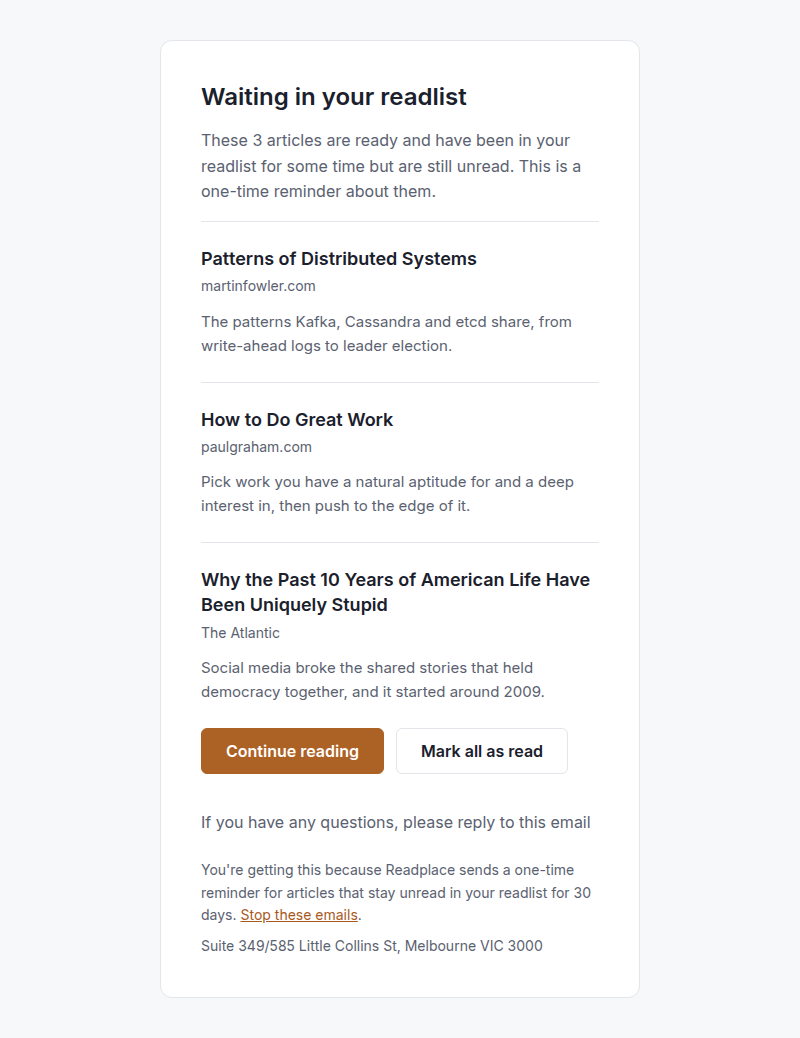
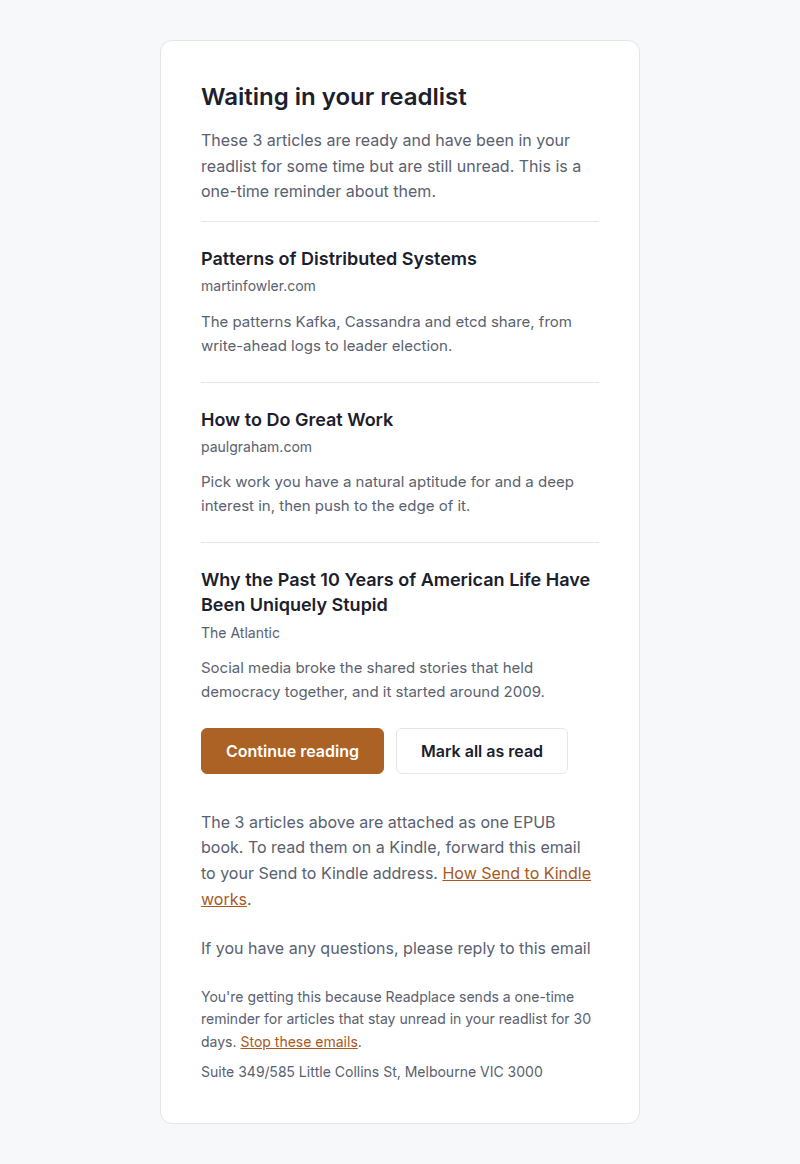
docs(hutch): regenerate the digest email captures from the current sender
The readlist digest, trial-ending digest and Hacker News starter captures
predate b01e4fcf3, so they lack the EPUB attachment line and the "How Send
to Kindle works" link, and 9cdd36683 has since changed their unsubscribe
URL and the starter's utm_source.

Each body is re-rendered through the email builder with the example inputs
the customer-emails visual test uses. With those inputs the other 24
captures come out byte for byte as checked in, so only these four change.
The five screenshots of these emails are re-rendered at 800px and 390px in
the pinned Playwright image (v1.60.0) with Inter 4.1 installed; rendering
the old bodies this way reproduces the old screenshots' dimensions.

Changed region(s): [[0.25, 0.0617, 0.75, 0.9249]]

diff --git a/projects/hutch/docs/customer-emails/html/hacker-news-starter--default.html b/projects/hutch/docs/customer-emails/html/hacker-news-starter--default.html
@@ -29,9 +29,9 @@
                         a summary can mention one. Left unwrapped, the client would build
                         its own link to the original site — the one destination this email
                         must never offer. Text already inside an anchor is left alone. -->
-                      <p style="margin:0 0 4px;font-size:18px;line-height:1.4;font-weight:600;overflow-wrap:anywhere;word-break:break-word;"><a href="https://readplace.com/queue/05d1775554397973376adaf5128157d5/view?from&#x3D;reader-ready-email&amp;queue&#x3D;7c4e1a9f3b2d6e80&amp;campaign&#x3D;hn-starter-v1&amp;utm_source&#x3D;queue-digest&amp;utm_medium&#x3D;email&amp;utm_campaign&#x3D;hn-starter-v1&amp;utm_content&#x3D;article&amp;utm_term&#x3D;starter-3f1c9a7e5b2d4c8e6a0f1b3d5c7e9a2b4d6f8a0c1e3b5d7f9a2c4e6b8d0f1a3c" style="color:#1A202C;text-decoration:none;">In defense of simple architectures</a></p>
-                      <p style="margin:0 0 12px;font-size:14px;line-height:1.6;overflow-wrap:anywhere;word-break:break-word;"><a href="https://readplace.com/queue/05d1775554397973376adaf5128157d5/view?from&#x3D;reader-ready-email&amp;queue&#x3D;7c4e1a9f3b2d6e80&amp;campaign&#x3D;hn-starter-v1&amp;utm_source&#x3D;queue-digest&amp;utm_medium&#x3D;email&amp;utm_campaign&#x3D;hn-starter-v1&amp;utm_content&#x3D;article&amp;utm_term&#x3D;starter-3f1c9a7e5b2d4c8e6a0f1b3d5c7e9a2b4d6f8a0c1e3b5d7f9a2c4e6b8d0f1a3c" style="color:#5A6170;text-decoration:none;">danluu.com</a></p>
-                      <p style="margin:0;font-size:15px;line-height:1.6;overflow-wrap:anywhere;word-break:break-word;"><a href="https://readplace.com/queue/05d1775554397973376adaf5128157d5/view?from&#x3D;reader-ready-email&amp;queue&#x3D;7c4e1a9f3b2d6e80&amp;campaign&#x3D;hn-starter-v1&amp;utm_source&#x3D;queue-digest&amp;utm_medium&#x3D;email&amp;utm_campaign&#x3D;hn-starter-v1&amp;utm_content&#x3D;article&amp;utm_term&#x3D;starter-3f1c9a7e5b2d4c8e6a0f1b3d5c7e9a2b4d6f8a0c1e3b5d7f9a2c4e6b8d0f1a3c" style="color:#5A6170;text-decoration:none;">Wave runs a multi-billion-dollar business on a Python monolith on top of Postgres, and the boring choices keep paying off.</a></p>
+                      <p style="margin:0 0 4px;font-size:18px;line-height:1.4;font-weight:600;overflow-wrap:anywhere;word-break:break-word;"><a href="https://readplace.com/queue/05d1775554397973376adaf5128157d5/view?from&#x3D;reader-ready-email&amp;queue&#x3D;7c4e1a9f3b2d6e80&amp;campaign&#x3D;hn-starter-v1&amp;utm_source&#x3D;starter-email&amp;utm_medium&#x3D;email&amp;utm_campaign&#x3D;hn-starter-v1&amp;utm_content&#x3D;article&amp;utm_term&#x3D;starter-3f1c9a7e5b2d4c8e6a0f1b3d5c7e9a2b4d6f8a0c1e3b5d7f9a2c4e6b8d0f1a3c" style="color:#1A202C;text-decoration:none;">In defense of simple architectures</a></p>
+                      <p style="margin:0 0 12px;font-size:14px;line-height:1.6;overflow-wrap:anywhere;word-break:break-word;"><a href="https://readplace.com/queue/05d1775554397973376adaf5128157d5/view?from&#x3D;reader-ready-email&amp;queue&#x3D;7c4e1a9f3b2d6e80&amp;campaign&#x3D;hn-starter-v1&amp;utm_source&#x3D;starter-email&amp;utm_medium&#x3D;email&amp;utm_campaign&#x3D;hn-starter-v1&amp;utm_content&#x3D;article&amp;utm_term&#x3D;starter-3f1c9a7e5b2d4c8e6a0f1b3d5c7e9a2b4d6f8a0c1e3b5d7f9a2c4e6b8d0f1a3c" style="color:#5A6170;text-decoration:none;">danluu.com</a></p>
+                      <p style="margin:0;font-size:15px;line-height:1.6;overflow-wrap:anywhere;word-break:break-word;"><a href="https://readplace.com/queue/05d1775554397973376adaf5128157d5/view?from&#x3D;reader-ready-email&amp;queue&#x3D;7c4e1a9f3b2d6e80&amp;campaign&#x3D;hn-starter-v1&amp;utm_source&#x3D;starter-email&amp;utm_medium&#x3D;email&amp;utm_campaign&#x3D;hn-starter-v1&amp;utm_content&#x3D;article&amp;utm_term&#x3D;starter-3f1c9a7e5b2d4c8e6a0f1b3d5c7e9a2b4d6f8a0c1e3b5d7f9a2c4e6b8d0f1a3c" style="color:#5A6170;text-decoration:none;">Wave runs a multi-billion-dollar business on a Python monolith on top of Postgres, and the boring choices keep paying off.</a></p>
                     </td>
                   </tr>
                 </table>
@@ -43,9 +43,9 @@
                         a summary can mention one. Left unwrapped, the client would build
                         its own link to the original site — the one destination this email
                         must never offer. Text already inside an anchor is left alone. -->
-                      <p style="margin:0 0 4px;font-size:18px;line-height:1.4;font-weight:600;overflow-wrap:anywhere;word-break:break-word;"><a href="https://readplace.com/queue/950ad419d75c49c76313c873a64b0c1a/view?from&#x3D;reader-ready-email&amp;queue&#x3D;7c4e1a9f3b2d6e80&amp;campaign&#x3D;hn-starter-v1&amp;utm_source&#x3D;queue-digest&amp;utm_medium&#x3D;email&amp;utm_campaign&#x3D;hn-starter-v1&amp;utm_content&#x3D;article&amp;utm_term&#x3D;starter-3f1c9a7e5b2d4c8e6a0f1b3d5c7e9a2b4d6f8a0c1e3b5d7f9a2c4e6b8d0f1a3c" style="color:#1A202C;text-decoration:none;">DNS &quot;propagation&quot; is actually caches expiring</a></p>
-                      <p style="margin:0 0 12px;font-size:14px;line-height:1.6;overflow-wrap:anywhere;word-break:break-word;"><a href="https://readplace.com/queue/950ad419d75c49c76313c873a64b0c1a/view?from&#x3D;reader-ready-email&amp;queue&#x3D;7c4e1a9f3b2d6e80&amp;campaign&#x3D;hn-starter-v1&amp;utm_source&#x3D;queue-digest&amp;utm_medium&#x3D;email&amp;utm_campaign&#x3D;hn-starter-v1&amp;utm_content&#x3D;article&amp;utm_term&#x3D;starter-3f1c9a7e5b2d4c8e6a0f1b3d5c7e9a2b4d6f8a0c1e3b5d7f9a2c4e6b8d0f1a3c" style="color:#5A6170;text-decoration:none;">Julia Evans</a></p>
-                      <p style="margin:0;font-size:15px;line-height:1.6;overflow-wrap:anywhere;word-break:break-word;"><a href="https://readplace.com/queue/950ad419d75c49c76313c873a64b0c1a/view?from&#x3D;reader-ready-email&amp;queue&#x3D;7c4e1a9f3b2d6e80&amp;campaign&#x3D;hn-starter-v1&amp;utm_source&#x3D;queue-digest&amp;utm_medium&#x3D;email&amp;utm_campaign&#x3D;hn-starter-v1&amp;utm_content&#x3D;article&amp;utm_term&#x3D;starter-3f1c9a7e5b2d4c8e6a0f1b3d5c7e9a2b4d6f8a0c1e3b5d7f9a2c4e6b8d0f1a3c" style="color:#5A6170;text-decoration:none;">Why DNS changes seem to take time to spread: resolvers keep cached records until their TTL runs out.</a></p>
+                      <p style="margin:0 0 4px;font-size:18px;line-height:1.4;font-weight:600;overflow-wrap:anywhere;word-break:break-word;"><a href="https://readplace.com/queue/950ad419d75c49c76313c873a64b0c1a/view?from&#x3D;reader-ready-email&amp;queue&#x3D;7c4e1a9f3b2d6e80&amp;campaign&#x3D;hn-starter-v1&amp;utm_source&#x3D;starter-email&amp;utm_medium&#x3D;email&amp;utm_campaign&#x3D;hn-starter-v1&amp;utm_content&#x3D;article&amp;utm_term&#x3D;starter-3f1c9a7e5b2d4c8e6a0f1b3d5c7e9a2b4d6f8a0c1e3b5d7f9a2c4e6b8d0f1a3c" style="color:#1A202C;text-decoration:none;">DNS &quot;propagation&quot; is actually caches expiring</a></p>
+                      <p style="margin:0 0 12px;font-size:14px;line-height:1.6;overflow-wrap:anywhere;word-break:break-word;"><a href="https://readplace.com/queue/950ad419d75c49c76313c873a64b0c1a/view?from&#x3D;reader-ready-email&amp;queue&#x3D;7c4e1a9f3b2d6e80&amp;campaign&#x3D;hn-starter-v1&amp;utm_source&#x3D;starter-email&amp;utm_medium&#x3D;email&amp;utm_campaign&#x3D;hn-starter-v1&amp;utm_content&#x3D;article&amp;utm_term&#x3D;starter-3f1c9a7e5b2d4c8e6a0f1b3d5c7e9a2b4d6f8a0c1e3b5d7f9a2c4e6b8d0f1a3c" style="color:#5A6170;text-decoration:none;">Julia Evans</a></p>
+                      <p style="margin:0;font-size:15px;line-height:1.6;overflow-wrap:anywhere;word-break:break-word;"><a href="https://readplace.com/queue/950ad419d75c49c76313c873a64b0c1a/view?from&#x3D;reader-ready-email&amp;queue&#x3D;7c4e1a9f3b2d6e80&amp;campaign&#x3D;hn-starter-v1&amp;utm_source&#x3D;starter-email&amp;utm_medium&#x3D;email&amp;utm_campaign&#x3D;hn-starter-v1&amp;utm_content&#x3D;article&amp;utm_term&#x3D;starter-3f1c9a7e5b2d4c8e6a0f1b3d5c7e9a2b4d6f8a0c1e3b5d7f9a2c4e6b8d0f1a3c" style="color:#5A6170;text-decoration:none;">Why DNS changes seem to take time to spread: resolvers keep cached records until their TTL runs out.</a></p>
                     </td>
                   </tr>
                 </table>
@@ -57,9 +57,9 @@
                         a summary can mention one. Left unwrapped, the client would build
                         its own link to the original site — the one destination this email
                         must never offer. Text already inside an anchor is left alone. -->
-                      <p style="margin:0 0 4px;font-size:18px;line-height:1.4;font-weight:600;overflow-wrap:anywhere;word-break:break-word;"><a href="https://readplace.com/queue/1257466dab1bdfd516fd9f2b37db3bc4/view?from&#x3D;reader-ready-email&amp;queue&#x3D;7c4e1a9f3b2d6e80&amp;campaign&#x3D;hn-starter-v1&amp;utm_source&#x3D;queue-digest&amp;utm_medium&#x3D;email&amp;utm_campaign&#x3D;hn-starter-v1&amp;utm_content&#x3D;article&amp;utm_term&#x3D;starter-3f1c9a7e5b2d4c8e6a0f1b3d5c7e9a2b4d6f8a0c1e3b5d7f9a2c4e6b8d0f1a3c" style="color:#1A202C;text-decoration:none;">Appropriate Uses For SQLite</a></p>
-                      <p style="margin:0 0 12px;font-size:14px;line-height:1.6;overflow-wrap:anywhere;word-break:break-word;"><a href="https://readplace.com/queue/1257466dab1bdfd516fd9f2b37db3bc4/view?from&#x3D;reader-ready-email&amp;queue&#x3D;7c4e1a9f3b2d6e80&amp;campaign&#x3D;hn-starter-v1&amp;utm_source&#x3D;queue-digest&amp;utm_medium&#x3D;email&amp;utm_campaign&#x3D;hn-starter-v1&amp;utm_content&#x3D;article&amp;utm_term&#x3D;starter-3f1c9a7e5b2d4c8e6a0f1b3d5c7e9a2b4d6f8a0c1e3b5d7f9a2c4e6b8d0f1a3c" style="color:#5A6170;text-decoration:none;">SQLite</a></p>
-                      <p style="margin:0;font-size:15px;line-height:1.6;overflow-wrap:anywhere;word-break:break-word;"><a href="https://readplace.com/queue/1257466dab1bdfd516fd9f2b37db3bc4/view?from&#x3D;reader-ready-email&amp;queue&#x3D;7c4e1a9f3b2d6e80&amp;campaign&#x3D;hn-starter-v1&amp;utm_source&#x3D;queue-digest&amp;utm_medium&#x3D;email&amp;utm_campaign&#x3D;hn-starter-v1&amp;utm_content&#x3D;article&amp;utm_term&#x3D;starter-3f1c9a7e5b2d4c8e6a0f1b3d5c7e9a2b4d6f8a0c1e3b5d7f9a2c4e6b8d0f1a3c" style="color:#5A6170;text-decoration:none;">SQLite competes with fopen(), not with client/server databases, and fits most low-to-medium traffic websites.</a></p>
+                      <p style="margin:0 0 4px;font-size:18px;line-height:1.4;font-weight:600;overflow-wrap:anywhere;word-break:break-word;"><a href="https://readplace.com/queue/1257466dab1bdfd516fd9f2b37db3bc4/view?from&#x3D;reader-ready-email&amp;queue&#x3D;7c4e1a9f3b2d6e80&amp;campaign&#x3D;hn-starter-v1&amp;utm_source&#x3D;starter-email&amp;utm_medium&#x3D;email&amp;utm_campaign&#x3D;hn-starter-v1&amp;utm_content&#x3D;article&amp;utm_term&#x3D;starter-3f1c9a7e5b2d4c8e6a0f1b3d5c7e9a2b4d6f8a0c1e3b5d7f9a2c4e6b8d0f1a3c" style="color:#1A202C;text-decoration:none;">Appropriate Uses For SQLite</a></p>
+                      <p style="margin:0 0 12px;font-size:14px;line-height:1.6;overflow-wrap:anywhere;word-break:break-word;"><a href="https://readplace.com/queue/1257466dab1bdfd516fd9f2b37db3bc4/view?from&#x3D;reader-ready-email&amp;queue&#x3D;7c4e1a9f3b2d6e80&amp;campaign&#x3D;hn-starter-v1&amp;utm_source&#x3D;starter-email&amp;utm_medium&#x3D;email&amp;utm_campaign&#x3D;hn-starter-v1&amp;utm_content&#x3D;article&amp;utm_term&#x3D;starter-3f1c9a7e5b2d4c8e6a0f1b3d5c7e9a2b4d6f8a0c1e3b5d7f9a2c4e6b8d0f1a3c" style="color:#5A6170;text-decoration:none;">SQLite</a></p>
+                      <p style="margin:0;font-size:15px;line-height:1.6;overflow-wrap:anywhere;word-break:break-word;"><a href="https://readplace.com/queue/1257466dab1bdfd516fd9f2b37db3bc4/view?from&#x3D;reader-ready-email&amp;queue&#x3D;7c4e1a9f3b2d6e80&amp;campaign&#x3D;hn-starter-v1&amp;utm_source&#x3D;starter-email&amp;utm_medium&#x3D;email&amp;utm_campaign&#x3D;hn-starter-v1&amp;utm_content&#x3D;article&amp;utm_term&#x3D;starter-3f1c9a7e5b2d4c8e6a0f1b3d5c7e9a2b4d6f8a0c1e3b5d7f9a2c4e6b8d0f1a3c" style="color:#5A6170;text-decoration:none;">SQLite competes with fopen(), not with client/server databases, and fits most low-to-medium traffic websites.</a></p>
                     </td>
                   </tr>
                 </table>
@@ -72,7 +72,7 @@
                             <table role="presentation" cellpadding="0" cellspacing="0" style="margin:0;">
                               <tr>
                                 <td style="border-radius:6px;background-color:#AD6225;border:1px solid #AD6225;">
-                                  <a href="https://readplace.com/queue?queue&#x3D;7c4e1a9f3b2d6e80&amp;utm_source&#x3D;queue-digest&amp;utm_medium&#x3D;email&amp;utm_campaign&#x3D;hn-starter-v1&amp;utm_content&#x3D;continue-reading&amp;utm_term&#x3D;starter-3f1c9a7e5b2d4c8e6a0f1b3d5c7e9a2b4d6f8a0c1e3b5d7f9a2c4e6b8d0f1a3c" style="display:inline-block;padding:12px 24px;font-size:16px;font-weight:600;line-height:20px;color:#FFFFFF;text-decoration:none;border-radius:6px;">Read your Hacker News picks</a>
+                                  <a href="https://readplace.com/queue?queue&#x3D;7c4e1a9f3b2d6e80&amp;utm_source&#x3D;starter-email&amp;utm_medium&#x3D;email&amp;utm_campaign&#x3D;hn-starter-v1&amp;utm_content&#x3D;continue-reading&amp;utm_term&#x3D;starter-3f1c9a7e5b2d4c8e6a0f1b3d5c7e9a2b4d6f8a0c1e3b5d7f9a2c4e6b8d0f1a3c" style="display:inline-block;padding:12px 24px;font-size:16px;font-weight:600;line-height:20px;color:#FFFFFF;text-decoration:none;border-radius:6px;">Read your Hacker News picks</a>
                                 </td>
                               </tr>
                             </table>
@@ -82,8 +82,9 @@
                     </td>
                   </tr>
                 </table>
+                <p style="margin:24px 0 0;font-size:16px;line-height:1.6;color:#5A6170;">The 3 articles above are attached as one EPUB book. To read them on a Kindle, forward this email to your Send to Kindle address. <a href="https://readplace.com/blog/read-your-saved-articles-on-a-kindle-or-kobo?utm_source&#x3D;starter-email&amp;utm_medium&#x3D;email&amp;utm_campaign&#x3D;hn-starter-v1&amp;utm_content&#x3D;kindle-guide&amp;utm_term&#x3D;starter-3f1c9a7e5b2d4c8e6a0f1b3d5c7e9a2b4d6f8a0c1e3b5d7f9a2c4e6b8d0f1a3c" style="color:#A85A1E;text-decoration:underline;">How Send to Kindle works</a>.</p>
                 <p style="margin:24px 0 0;font-size:16px;line-height:1.6;color:#5A6170;">If you have any questions, please reply to this email</p>
-                <p style="margin:24px 0 0;font-size:14px;line-height:1.6;color:#5A6170;">You&#x27;re getting this because you save articles to Readplace. <a href="https://readplace.com/email/queue-digest/unsubscribe?t&#x3D;4f9a1c7e2b3d48e6a0c5d9f1e7b2a6c3.9c2e7b4a1f6d3e8c5b0a7f2d4e9c1b6a3f8d5e2c7b0a4f9e1d6c3b8a5f2e7d0c&amp;utm_source&#x3D;queue-digest&amp;utm_medium&#x3D;email&amp;utm_campaign&#x3D;hn-starter-v1&amp;utm_content&#x3D;unsubscribe&amp;utm_term&#x3D;starter-3f1c9a7e5b2d4c8e6a0f1b3d5c7e9a2b4d6f8a0c1e3b5d7f9a2c4e6b8d0f1a3c" style="color:#A85A1E;text-decoration:underline;">Stop these emails</a>.</p>
+                <p style="margin:24px 0 0;font-size:14px;line-height:1.6;color:#5A6170;">You&#x27;re getting this because you save articles to Readplace. <a href="https://readplace.com/email/queue-digest/unsubscribe?t&#x3D;4f9a1c7e2b3d48e6a0c5d9f1e7b2a6c3.9c2e7b4a1f6d3e8c5b0a7f2d4e9c1b6a3f8d5e2c7b0a4f9e1d6c3b8a5f2e7d0c&amp;kind&#x3D;starter&amp;utm_source&#x3D;starter-email&amp;utm_medium&#x3D;email&amp;utm_campaign&#x3D;hn-starter-v1&amp;utm_content&#x3D;unsubscribe&amp;utm_term&#x3D;starter-3f1c9a7e5b2d4c8e6a0f1b3d5c7e9a2b4d6f8a0c1e3b5d7f9a2c4e6b8d0f1a3c" style="color:#A85A1E;text-decoration:underline;">Stop these emails</a>.</p>
                 <p style="margin:8px 0 0;font-size:14px;line-height:1.6;color:#5A6170;">Suite 349/585 Little Collins St, Melbourne VIC 3000</p>
               </td>
             </tr>

diff --git a/projects/hutch/docs/customer-emails/html/queue-digest--default.html b/projects/hutch/docs/customer-emails/html/queue-digest--default.html
@@ -95,8 +95,9 @@
                     </td>
                   </tr>
                 </table>
+                <p style="margin:24px 0 0;font-size:16px;line-height:1.6;color:#5A6170;">The 3 articles above are attached as one EPUB book. To read them on a Kindle, forward this email to your Send to Kindle address. <a href="https://readplace.com/blog/read-your-saved-articles-on-a-kindle-or-kobo?utm_source&#x3D;queue-digest&amp;utm_medium&#x3D;email&amp;utm_campaign&#x3D;regular&amp;utm_content&#x3D;kindle-guide&amp;utm_term&#x3D;b6e3f0a2-5c1d-4e7f-9a83-2d4c6e8f1a57" style="color:#A85A1E;text-decoration:underline;">How Send to Kindle works</a>.</p>
                 <p style="margin:24px 0 0;font-size:16px;line-height:1.6;color:#5A6170;">If you have any questions, please reply to this email</p>
-                <p style="margin:24px 0 0;font-size:14px;line-height:1.6;color:#5A6170;">You&#x27;re getting this because Readplace sends a one-time reminder for articles that stay unread in your readlist for 30 days. <a href="https://readplace.com/email/queue-digest/unsubscribe?t&#x3D;4f9a1c7e2b3d48e6a0c5d9f1e7b2a6c3.db6e0c9463396e7e6143ec80076a062a3ca046dd6838dc5ba87abf7f7af7e7cc&amp;utm_source&#x3D;queue-digest&amp;utm_medium&#x3D;email&amp;utm_campaign&#x3D;regular&amp;utm_content&#x3D;unsubscribe&amp;utm_term&#x3D;b6e3f0a2-5c1d-4e7f-9a83-2d4c6e8f1a57" style="color:#A85A1E;text-decoration:underline;">Stop these emails</a>.</p>
+                <p style="margin:24px 0 0;font-size:14px;line-height:1.6;color:#5A6170;">You&#x27;re getting this because Readplace sends a one-time reminder for articles that stay unread in your readlist for 30 days. <a href="https://readplace.com/email/queue-digest/unsubscribe?t&#x3D;4f9a1c7e2b3d48e6a0c5d9f1e7b2a6c3.db6e0c9463396e7e6143ec80076a062a3ca046dd6838dc5ba87abf7f7af7e7cc&amp;kind&#x3D;regular&amp;utm_source&#x3D;queue-digest&amp;utm_medium&#x3D;email&amp;utm_campaign&#x3D;regular&amp;utm_content&#x3D;unsubscribe&amp;utm_term&#x3D;b6e3f0a2-5c1d-4e7f-9a83-2d4c6e8f1a57" style="color:#A85A1E;text-decoration:underline;">Stop these emails</a>.</p>
                 <p style="margin:8px 0 0;font-size:14px;line-height:1.6;color:#5A6170;">Suite 349/585 Little Collins St, Melbourne VIC 3000</p>
               </td>
             </tr>

diff --git a/projects/hutch/docs/customer-emails/html/queue-digest--single-article.html b/projects/hutch/docs/customer-emails/html/queue-digest--single-article.html
@@ -67,8 +67,9 @@
                     </td>
                   </tr>
                 </table>
+                <p style="margin:24px 0 0;font-size:16px;line-height:1.6;color:#5A6170;">The article above is attached as an EPUB. To read it on a Kindle, forward this email to your Send to Kindle address. <a href="https://readplace.com/blog/read-your-saved-articles-on-a-kindle-or-kobo?utm_source&#x3D;queue-digest&amp;utm_medium&#x3D;email&amp;utm_campaign&#x3D;regular&amp;utm_content&#x3D;kindle-guide&amp;utm_term&#x3D;e41a7b39-6d02-4c85-b1f3-7a9e2c5d0b68" style="color:#A85A1E;text-decoration:underline;">How Send to Kindle works</a>.</p>
                 <p style="margin:24px 0 0;font-size:16px;line-height:1.6;color:#5A6170;">If you have any questions, please reply to this email</p>
-                <p style="margin:24px 0 0;font-size:14px;line-height:1.6;color:#5A6170;">You&#x27;re getting this because Readplace sends a one-time reminder for articles that stay unread in your readlist for 30 days. <a href="https://readplace.com/email/queue-digest/unsubscribe?t&#x3D;4f9a1c7e2b3d48e6a0c5d9f1e7b2a6c3.db6e0c9463396e7e6143ec80076a062a3ca046dd6838dc5ba87abf7f7af7e7cc&amp;utm_source&#x3D;queue-digest&amp;utm_medium&#x3D;email&amp;utm_campaign&#x3D;regular&amp;utm_content&#x3D;unsubscribe&amp;utm_term&#x3D;e41a7b39-6d02-4c85-b1f3-7a9e2c5d0b68" style="color:#A85A1E;text-decoration:underline;">Stop these emails</a>.</p>
+                <p style="margin:24px 0 0;font-size:14px;line-height:1.6;color:#5A6170;">You&#x27;re getting this because Readplace sends a one-time reminder for articles that stay unread in your readlist for 30 days. <a href="https://readplace.com/email/queue-digest/unsubscribe?t&#x3D;4f9a1c7e2b3d48e6a0c5d9f1e7b2a6c3.db6e0c9463396e7e6143ec80076a062a3ca046dd6838dc5ba87abf7f7af7e7cc&amp;kind&#x3D;regular&amp;utm_source&#x3D;queue-digest&amp;utm_medium&#x3D;email&amp;utm_campaign&#x3D;regular&amp;utm_content&#x3D;unsubscribe&amp;utm_term&#x3D;e41a7b39-6d02-4c85-b1f3-7a9e2c5d0b68" style="color:#A85A1E;text-decoration:underline;">Stop these emails</a>.</p>
                 <p style="margin:8px 0 0;font-size:14px;line-height:1.6;color:#5A6170;">Suite 349/585 Little Collins St, Melbourne VIC 3000</p>
               </td>
             </tr>

diff --git a/projects/hutch/docs/customer-emails/html/trial-ending-digest--pay.html b/projects/hutch/docs/customer-emails/html/trial-ending-digest--pay.html
@@ -96,8 +96,9 @@
                     </td>
                   </tr>
                 </table>
+                <p style="margin:24px 0 0;font-size:16px;line-height:1.6;color:#5A6170;">The 3 articles above are attached as one EPUB book. To read them on a Kindle, forward this email to your Send to Kindle address. <a href="https://readplace.com/blog/read-your-saved-articles-on-a-kindle-or-kobo?utm_source&#x3D;queue-digest&amp;utm_medium&#x3D;email&amp;utm_campaign&#x3D;pay&amp;utm_content&#x3D;kindle-guide&amp;utm_term&#x3D;7f2c8a91-4be3-4d0a-b6e5-19c3d7a0f4e2" style="color:#A85A1E;text-decoration:underline;">How Send to Kindle works</a>.</p>
                 <p style="margin:24px 0 0;font-size:16px;line-height:1.6;color:#5A6170;">If you have any questions, please reply to this email</p>
-                <p style="margin:24px 0 0;font-size:14px;line-height:1.6;color:#5A6170;">You&#x27;re getting this because you save articles to Readplace. <a href="https://readplace.com/email/queue-digest/unsubscribe?t&#x3D;4f9a1c7e2b3d48e6a0c5d9f1e7b2a6c3.db6e0c9463396e7e6143ec80076a062a3ca046dd6838dc5ba87abf7f7af7e7cc&amp;utm_source&#x3D;queue-digest&amp;utm_medium&#x3D;email&amp;utm_campaign&#x3D;pay&amp;utm_content&#x3D;unsubscribe&amp;utm_term&#x3D;7f2c8a91-4be3-4d0a-b6e5-19c3d7a0f4e2" style="color:#A85A1E;text-decoration:underline;">Stop these emails</a>.</p>
+                <p style="margin:24px 0 0;font-size:14px;line-height:1.6;color:#5A6170;">You&#x27;re getting this because you save articles to Readplace. <a href="https://readplace.com/email/queue-digest/unsubscribe?t&#x3D;4f9a1c7e2b3d48e6a0c5d9f1e7b2a6c3.db6e0c9463396e7e6143ec80076a062a3ca046dd6838dc5ba87abf7f7af7e7cc&amp;kind&#x3D;pay&amp;utm_source&#x3D;queue-digest&amp;utm_medium&#x3D;email&amp;utm_campaign&#x3D;pay&amp;utm_content&#x3D;unsubscribe&amp;utm_term&#x3D;7f2c8a91-4be3-4d0a-b6e5-19c3d7a0f4e2" style="color:#A85A1E;text-decoration:underline;">Stop these emails</a>.</p>
                 <p style="margin:8px 0 0;font-size:14px;line-height:1.6;color:#5A6170;">Suite 349/585 Little Collins St, Melbourne VIC 3000</p>
               </td>
             </tr>
